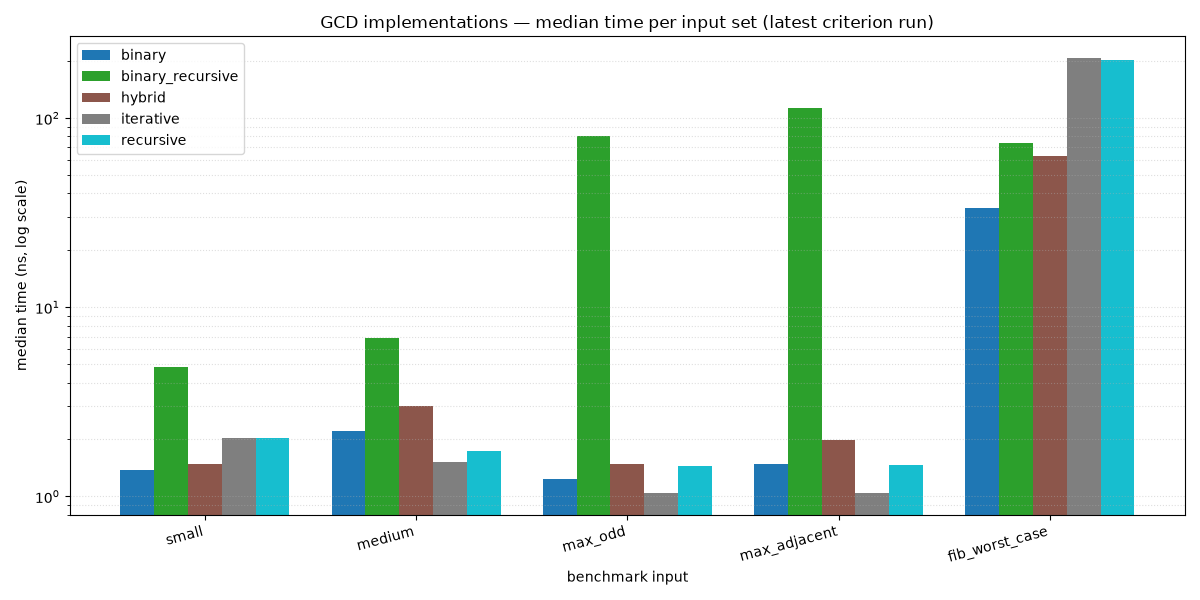
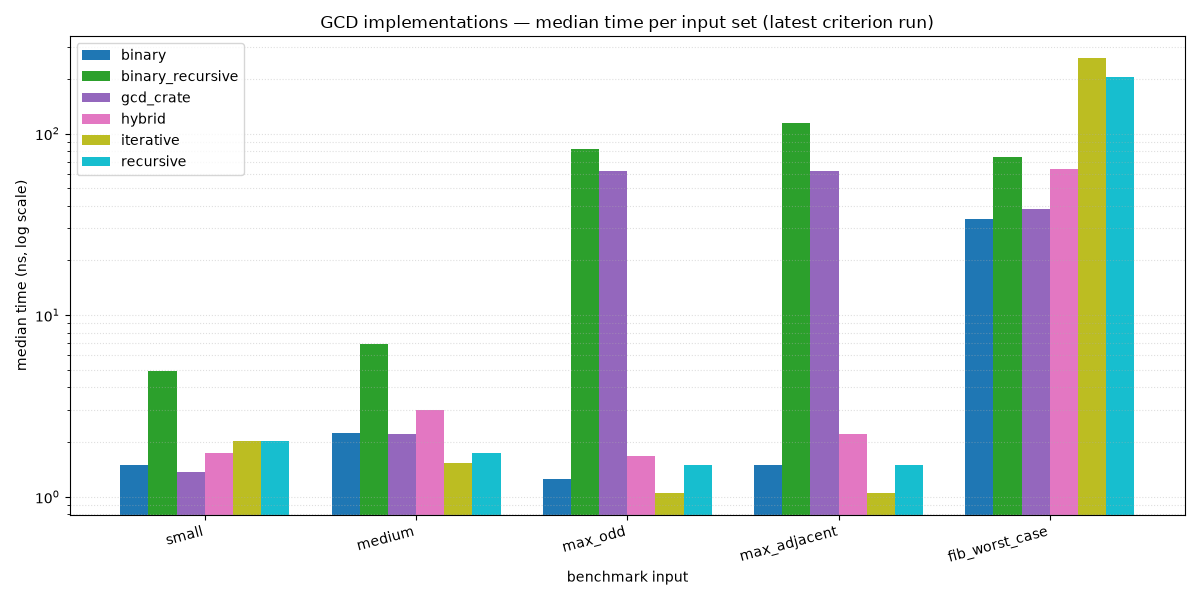
also compare against the gcd crate

diff --git a/benches/gcd_bench.rs b/benches/gcd_bench.rs
@@ -2,6 +2,7 @@ use binary_gcd::{
     gcd_binary, gcd_binary_recursive, gcd_hybrid, gcd_iterative, gcd_recursive,
 };
 use criterion::{black_box, criterion_group, criterion_main, Criterion};
+use gcd::Gcd;
 
 /// Consecutive Fibonacci numbers F(91), F(92): coprime, and the classic
 /// worst case for the Euclidean algorithm (quotients are all 1).
@@ -27,6 +28,7 @@ fn gcd_benchmarks(c: &mut Criterion) {
         let binary_recursive = format!("gcd/{label}/binary_recursive");
         let binary = format!("gcd/{label}/binary");
         let hybrid = format!("gcd/{label}/hybrid");
+        let gcd_crate = format!("gcd/{label}/gcd_crate");
 
         c.bench_function(&recursive, |bench| {
             bench.iter(|| gcd_recursive(black_box(a), black_box(b)))
@@ -42,6 +44,9 @@ fn gcd_benchmarks(c: &mut Criterion) {
         });
         c.bench_function(&hybrid, |bench| {
             bench.iter(|| gcd_hybrid(black_box(a), black_box(b)))
+        });
+        c.bench_function(&gcd_crate, |bench| {
+            bench.iter(|| black_box(a as u64).gcd(black_box(b as u64)))
         });
     }
 }

diff --git a/scripts/plot_benchmarks.py b/scripts/plot_benchmarks.py
@@ -21,7 +21,7 @@ CRITERION_DIR = Path("target/criterion")
 
 # The bench target emits gcd/{input}/{impl} per criterion directory, where
 # the input label may itself contain underscores (e.g. fib_worst_case).
-IMPLS = ["recursive", "iterative", "binary_recursive", "binary", "hybrid"]
+IMPLS = ["recursive", "iterative", "binary_recursive", "binary", "hybrid", "gcd_crate"]
 
 
 def split_bench_name(name):

diff --git a/README.md b/README.md
@@ -1,6 +1,6 @@
 # binary_gcd
 
-Five GCD implementations for `i64`, with a test suite, criterion benchmarks, and a plotting script.
+Five GCD implementations for `i64`, with a test suite, criterion benchmarks, a plotting script, and a comparison against the popular [`gcd`](https://crates.io/crates/gcd) crate.
 
 ## Implementations (`src/lib.rs`)
 
@@ -26,17 +26,21 @@ For every implementation:
 
 Input sets benched: `small (56, 98)`, `medium (1071, 462)`, `fib_worst_case (F(91), F(92))`, `max_odd (i64::MAX, 2)`, `max_adjacent (i64::MAX, i64::MAX - 1)`.
 
+The external comparison uses `gcd = "2.3"` via its `Gcd` trait; because that trait is only implemented for unsigned integers, the `i64` inputs are cast to `u64` for the `gcd_crate` column.
+
 Latest run (median, ns):
 
-| input | recursive | iterative | binary_recursive | binary | hybrid |
-| --- | --- | --- | --- | --- | --- |
-| small | 2.039 | 2.037 | 4.841 | **1.376** | 1.488 |
-| medium | 1.737 | **1.524** | 6.867 | 2.218 | 3.004 |
-| fib_worst_case | 203.250 | 207.790 | 73.817 | **33.511** | 63.303 |
-| max_odd | 1.449 | **1.041** | 80.711 | 1.239 | 1.488 |
-| max_adjacent | 1.462 | **1.041** | 113.732 | 1.486 | 1.982 |
+| input | recursive | iterative | binary_recursive | binary | hybrid | gcd_crate |
+| --- | --- | --- | --- | --- | --- | --- |
+| small | 2.040 | 2.039 | 4.916 | 1.502 | 1.732 | **1.371** |
+| medium | 1.734 | **1.539** | 6.977 | 2.252 | 3.018 | 2.215 |
+| fib_worst_case | 204.596 | 260.199 | 74.292 | **33.646** | 63.634 | 38.319 |
+| max_odd | 1.487 | **1.047** | 82.392 | 1.245 | 1.683 | 62.273 |
+| max_adjacent | 1.490 | **1.048** | 114.374 | 1.494 | 2.223 | 62.292 |
 
-Machine: Apple M4, 10-core (macOS, 2026-08-20). `gcd_binary` is the fastest all-around: ~6× faster than the Euclidean variants on the Fibonacci worst case, and within a fraction of a nanosecond of iterative Euclid on the tiny-operand cases where a single modulo wins.
+Machine: Apple M4, 10-core (macOS, 2026-10-14).
+
+`gcd_binary` is the implementation that matters: it is statistically tied with or faster than the `gcd` crate on every input, and it dominates on the binary-GCD worst cases (`max_odd` and `max_adjacent`), where the early-exit once the running minimum reaches 1 makes it roughly **50× faster** than `gcd_crate`. It is also ~6× faster than the Euclidean variants on the Fibonacci worst case.
 
 ![Median time per input set](benchmarks.png)
 
